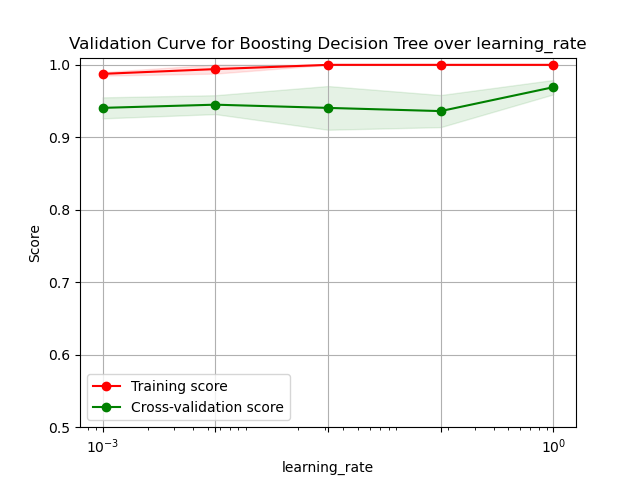
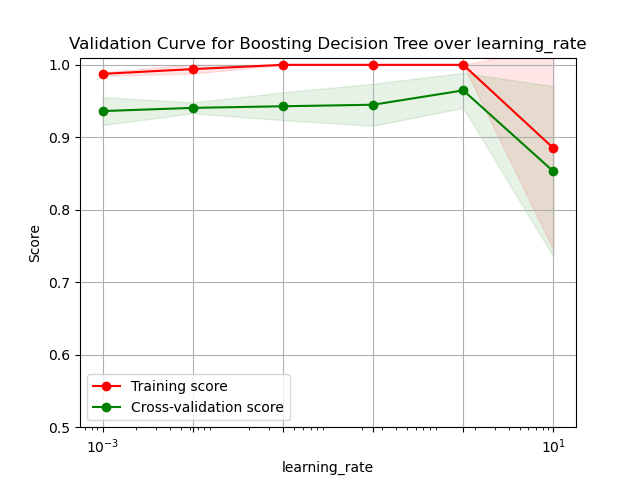
pr1 boost update range

Changed region(s): [[0.1562, 0.125, 0.875, 0.5312], [0.875, 0.9062, 0.9062, 0.9375]]

diff --git a/pr1/Boosting.py b/pr1/Boosting.py
@@ -18,13 +18,13 @@ class BoostClassifier(object):
 
     def train(self, X_train, y_train):
         # set up a weak learner
-        base_clf = DecisionTreeClassifier(max_depth=3, min_samples_leaf=1, min_samples_split=5, ccp_alpha=0.0005, random_state=42)
+        base_clf = DecisionTreeClassifier(max_depth=3, ccp_alpha=0.0005, random_state=42)
         base_clf.fit(X_train, y_train)
         print("At depth:", base_clf.tree_.max_depth)
         print("Base Decision Tree Accuracy on the Train set: ", base_clf.score(X_train, y_train))
         clf_boost = AdaBoostClassifier(base_clf, random_state=42)
         params = {'n_estimators': np.arange(1, 200, 20),
-                  'learning_rate': np.logspace(-3, 0, 5)}
+                  'learning_rate': np.logspace(-3, 1, 6)}
 
         gcv = GridSearchCV(estimator=clf_boost,param_grid=params, cv=4)
         gcv.fit(X_train,y_train)
@@ -35,7 +35,7 @@ class BoostClassifier(object):
         if self.verbose:
             util.plot_learning_curve(self.dataset, estimator=best_dt, X_train=X_train, y_train=y_train, param_range=np.linspace(0.2,1,5, endpoint=True), title="Learning Curve for Boosting Decision Tree")
             util.plot_validation_curve(self.dataset, best_dt, X_train, y_train, title="Validation Curve for Boosting Decision Tree over n_estimators", xlabel='n_estimators', p_name="n_estimators", p_range=np.arange(1, 200, 20), cv=4)
-            util.plot_validation_curve(self.dataset, best_dt, X_train, y_train, title="Validation Curve for Boosting Decision Tree over learning_rate", xlabel='learning_rate', p_name="learning_rate", p_range=np.logspace(-3, 0, 5), cv=4, log=True)
+            util.plot_validation_curve(self.dataset, best_dt, X_train, y_train, title="Validation Curve for Boosting Decision Tree over learning_rate", xlabel='learning_rate', p_name="learning_rate", p_range=np.logspace(-3, 1, 6), cv=4, log=True)
 
         start = time.time()
         best_dt.fit(X_train, y_train)
